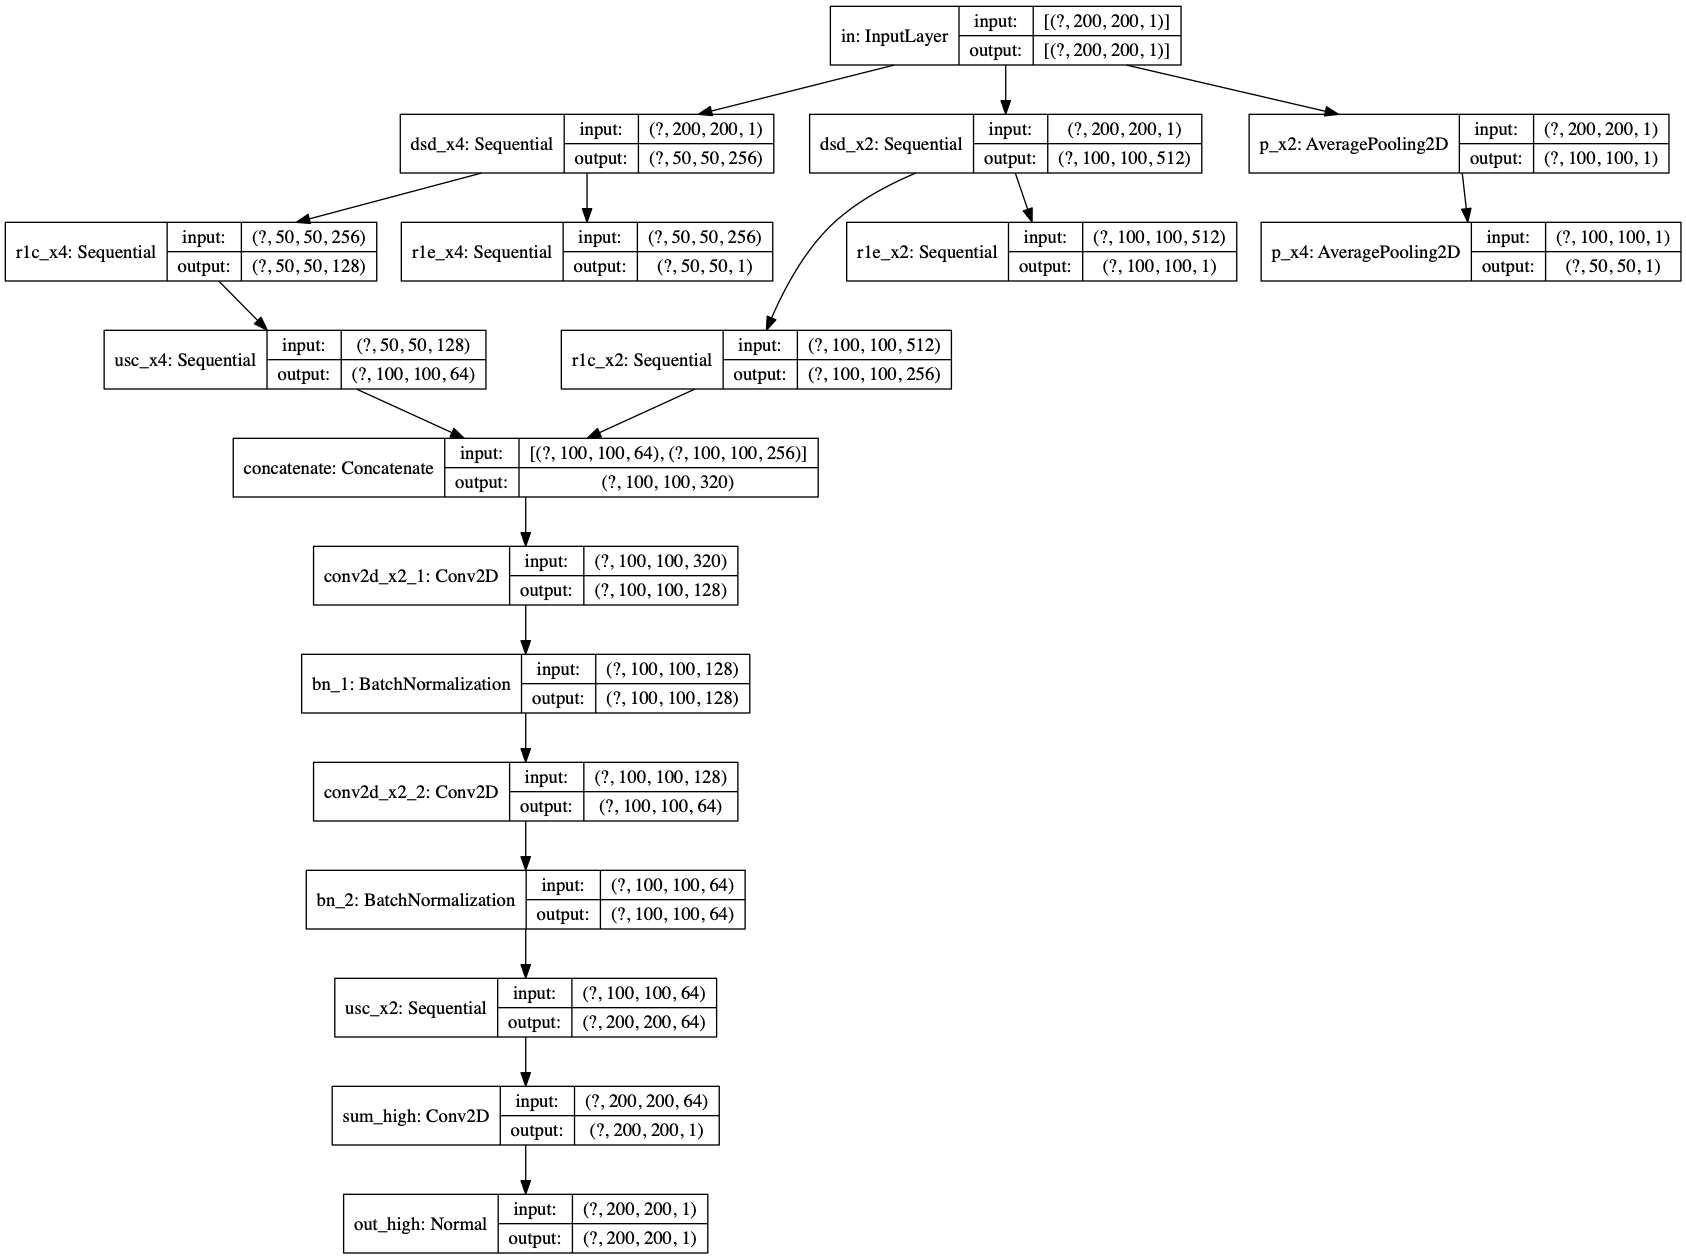
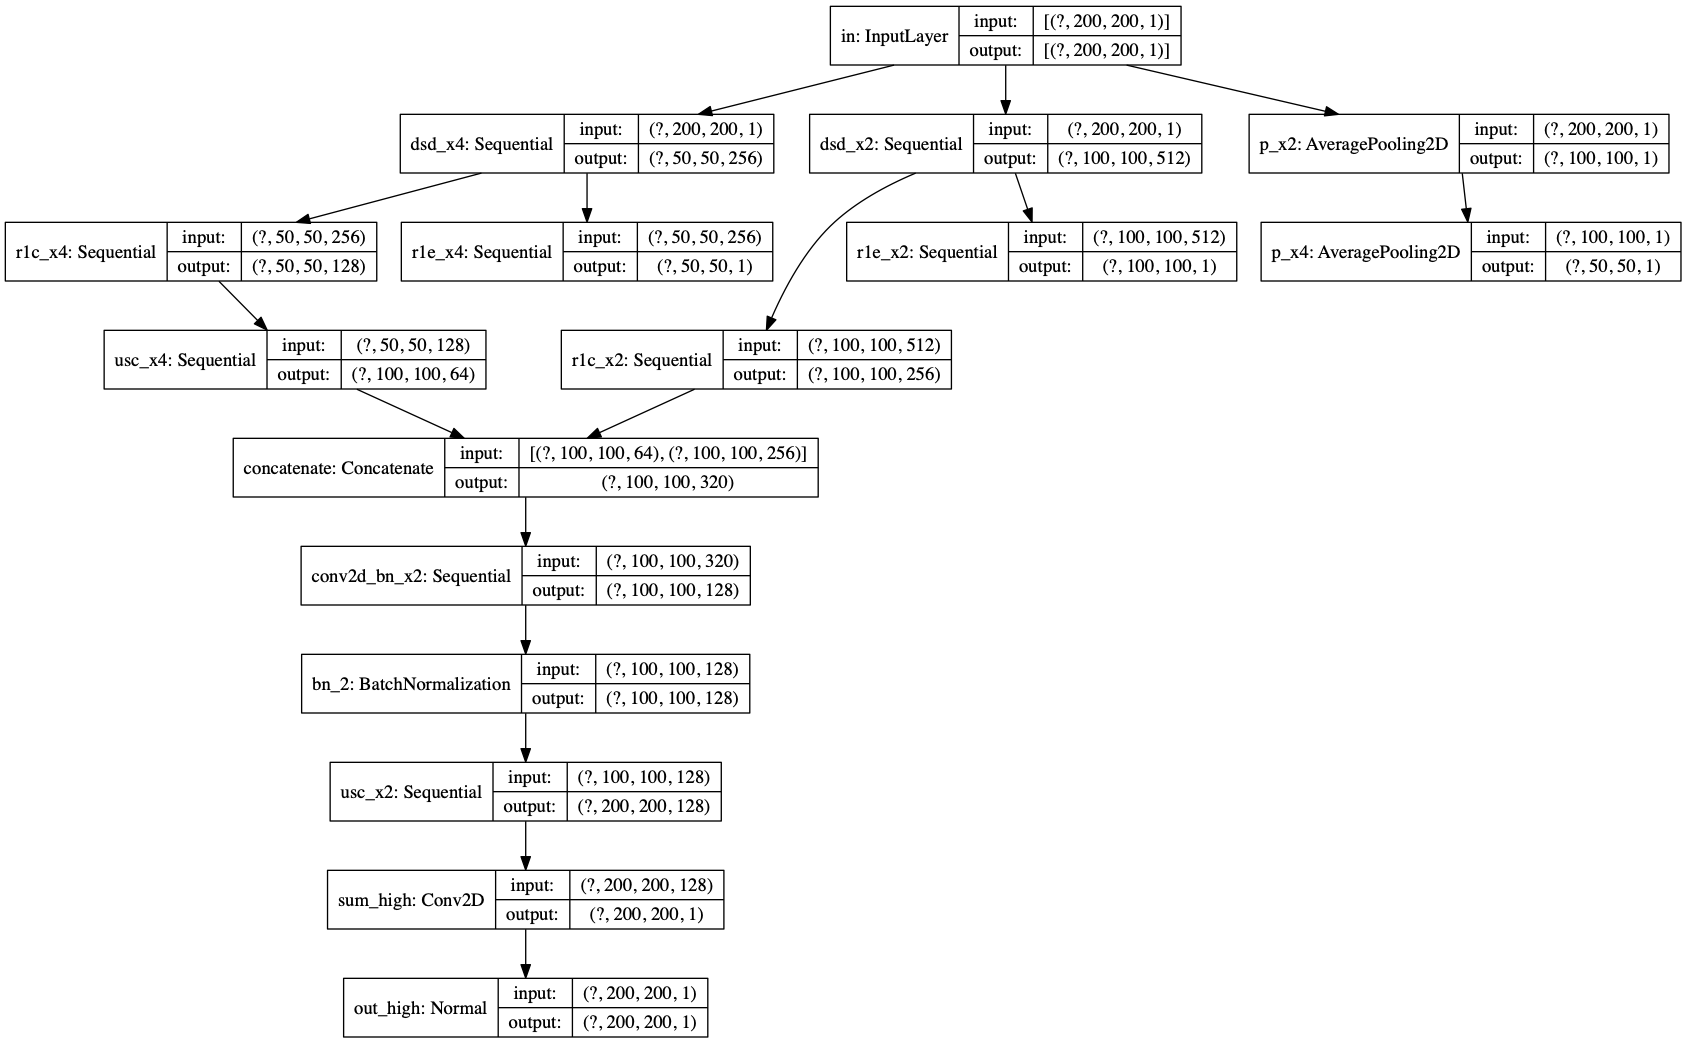
update

Changed region(s): [[0.0, 0.0, 1.0, 0.4909], [0.1851, 0.5216, 0.4626, 1.0]]

diff --git a/model.py b/model.py
@@ -230,6 +230,12 @@ def block_rank1_estimation(dims, input_len_size, input_channels, name=None):
     result.add(Normal(dims))
     return result
 
+def block_convolution(filters, name=None):
+    result = tf.keras.Sequential(name=name)
+    result.add(tf.keras.layers.Conv2D(filters, [3, 3], strides=1, padding='same', data_format="channels_last",
+                                    activation='relu', use_bias=False))
+    result.add(tf.keras.layers.BatchNormalization())
+    return result
 
 def make_generator_model(len_high_size=128, scale=4):
 
@@ -288,16 +294,10 @@ def make_generator_model(len_high_size=128, scale=4):
     out_low_x2 = r1e_x2(rech_x2)
 
     concat = tf.keras.layers.concatenate([sym_x4, sym_x2], axis=-1)
-    concat = tf.keras.layers.Conv2D(128, [3, 3], strides=1, padding='same', data_format="channels_last",
-                                    activation='relu', use_bias=False,
-                                    name='conv2d_x2_1')(concat)
-    concat = tf.keras.layers.BatchNormalization(name='bn_1')(concat)
-    concat = tf.keras.layers.Conv2D(64, [3, 3], strides=1, padding='same', data_format="channels_last",
-                                    activation='relu', use_bias=False,
-                                    name='conv2d_x2_2')(concat)
+    concat = block_convolution(filters=128, name='conv2d_bn_x2')(concat)
     concat = tf.keras.layers.BatchNormalization(name='bn_2')(concat)
     usc_x2 = block_upsample_convolution(
-        filters=64, input_len_size=len_low_size_x2, input_channels=64, upsample_ratio=2, name='usc_x2')
+        filters=128, input_len_size=len_low_size_x2, input_channels=128, upsample_ratio=2, name='usc_x2')
     sym = usc_x2(concat)
 
     Sumh = tf.keras.layers.Conv2D(filters=1, kernel_size=(1, 1),
@@ -522,10 +522,7 @@ def _train_step_generator(Gen, Dis, imgl, imgr, loss_filter, loss_weights, opts,
     gen_high_v += Gen.get_layer('usc_x2').trainable_variables
     gen_high_v += Gen.get_layer('r1c_x4').trainable_variables
     gen_high_v += Gen.get_layer('usc_x4').trainable_variables
-    gen_high_v += Gen.get_layer('conv2d_x2_1').trainable_variables
-    gen_high_v += Gen.get_layer('bn_1').trainable_variables
-    gen_high_v += Gen.get_layer('conv2d_x2_2').trainable_variables
-    gen_high_v += Gen.get_layer('bn_2').trainable_variables
+    gen_high_v += Gen.get_layer('conv2d_bn_x2').trainable_variables
     gen_high_v += Gen.get_layer('sum_high').trainable_variables
     gen_high_v += Gen.get_layer('out_high').trainable_variables
     gradients_of_generator_high = gen_tape_high.gradient(
